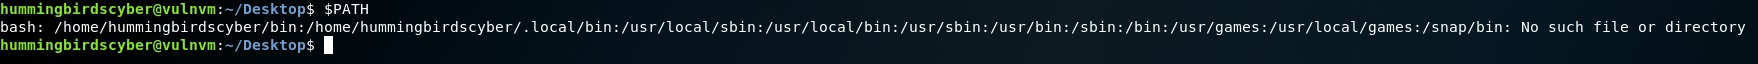
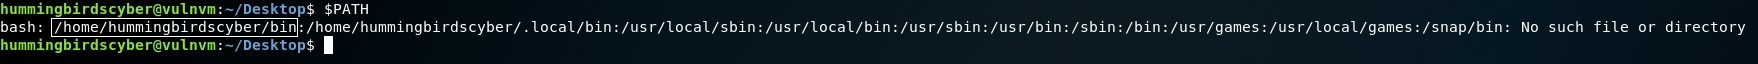
Completed hackinos-1 using setuid binary method

Changed region(s): [[0.0307, 0.5625, 0.1843, 0.5938], [0.0307, 0.2812, 0.1843, 0.3125]]

diff --git a/hackinos-1.md b/hackinos-1.md
@@ -125,12 +125,30 @@ for ($i = 1; $i <= 100; $i++) {
 * I ran the command `find / -user root -perm -4000 -print 2>/dev/null` to find the list of setuid binaries and to see if we could possibly use any of them for privilege escalation:
 ![](/screenshots/hackinos-1/setuidBinaries.jpg)
 * None of the binaries from the list really stood out to me but the very first one did: `/home/hummingbirdscyber/Desktop/a.out`.
-* I ran the binary file and found that our privileges were temporarily escalated, `root` got printed, and then we were back to being user `hummingbirdscyber`. When `root` was printed, `whoami` was presumably executed.
-* This was the part where I learnt: running `$PATH` showed us that the first place where files would be searched for execution was in `/home/hummingbirdscyber/bin`:
+* I ran the binary file (`./a.out`), `root` got printed and the program terminated immediately after that.
+* Our privileges were very likely to have been temporarily escalated to `root`, before being relegated back to being user `hummingbirdscyber`. When `root` was printed, `whoami` was also likely to have been executed.
+* To confirm what we have in mind, run `strings a.out` to see the strings of printable characters in the file:
+![](/screenshots/hackinos-1/stringsAOut.jpg)
+* Near the start of the output, we see that `setuid` was executed, presumably where we took on the role of `root`, and then `whoami` was executed somewhere not long after. `setuid` was then executed again towards the end of the file, where we were back to being `hummingbirdscyber`.
+* Note: The screenshot does not show all of the output from the `strings` command that was executed.
+* After that, I was mostly clueless on how to proceed, and this was the part where I learnt: running `$PATH` showed us the order of locations where files would be searched for execution:
 ![](/screenshots/hackinos-1/pathVariable.jpg)
+* In this case, `/home/hummingbirdscyber/bin` was the first directory to be searched.
 * This directory did not yet existed, so let us create it using `mkdir`.
-* After doing so, we will create our malicious file called `whoami` (which will give us our root shell), which contains a one-liner `/bin/sh` (or `/bin/bash`).
-* Our version of `whoami` will be executed by `a.out`, instead of the standard `whoami`.
+* After doing so, the brilliant idea that I learnt is that we will create our own malicious version of `whoami` (which will give us our root shell), which will contain a one-liner `/bin/bash` (or `/bin/sh`).
+* Note: The text editor `vim` is not available, so I used `nano` instead.
+* Our version of `whoami` will thus be executed by `a.out`, instead of the standard `whoami`.
+* After creating our `whoami`, `chmod +x whoami` to give it permissions to be executable, else running `a.out` would not give us the root shell we desire.
+* Finally, run `./a.out` and we have our root shell!
+![](/screenshots/hackinos-1/rootBinBash.jpg)
+![](/screenshots/hackinos-1/rootBinSh.jpg)
+* Depending on whether your one-liner in `whoami` was a `/bin/bash` or `/bin/sh`, your root shell looks slightly differently, where the former's look being very much identical to what we had as a non-root user.
+* Note: I could not quite run the `whoami` command to show that we are `root` because doing so would result in another shell being spawn, but you can just run `id` instead to confirm this.
+* Head to `/root` directory, and we find the file `flag`:
+![](/screenshots/hackinos-1/rootDirectory.jpg)
+* Open `flag` and we see an ASCII art that shows a hummingbird:
+![](/screenshots/hackinos-1/flagFinal.jpg)
+* Hurray, we are done for this exercise!
 
 # Docker Image for Privilege Escalation #
 * To-be-continued...
@@ -140,3 +158,4 @@ for ($i = 1; $i <= 100; $i++) {
 
 # Other walkthroughs visited #
 1. https://windsorwebdeveloper.com/hackinos-1-vulnhub-walkthrough/
+2. https://medium.com/infosec-adventures/hackinos-walkthrough-3c37844f44a9

diff --git a/mr-robot-1.md b/mr-robot-1.md
@@ -112,3 +112,9 @@ Explanation of how the `hydra` command works:
 * Key 1: 073403c8a58a1f80d943455fb30724b9
 * Key 2: 822c73956184f694993bede3eb39f959
 * Key 3: 04787ddef27c3dee1ee161b21670b4e4
+
+# Other walkthroughs visited #
+1. https://securitybytes.io/vulnhub-com-mr-robot-1-ctf-walkthrough-7d4800fc605a
+2. https://5h4d0wb0y.github.io/2017-05-08-mr-robot1/
+3. https://scriptkidd1e.wordpress.com/mr-robot-1-vulnhubs-vm-walkthrough/
+4. https://resources.infosecinstitute.com/vulnhub-machines-walkthrough-series-mr-robot/#gref
